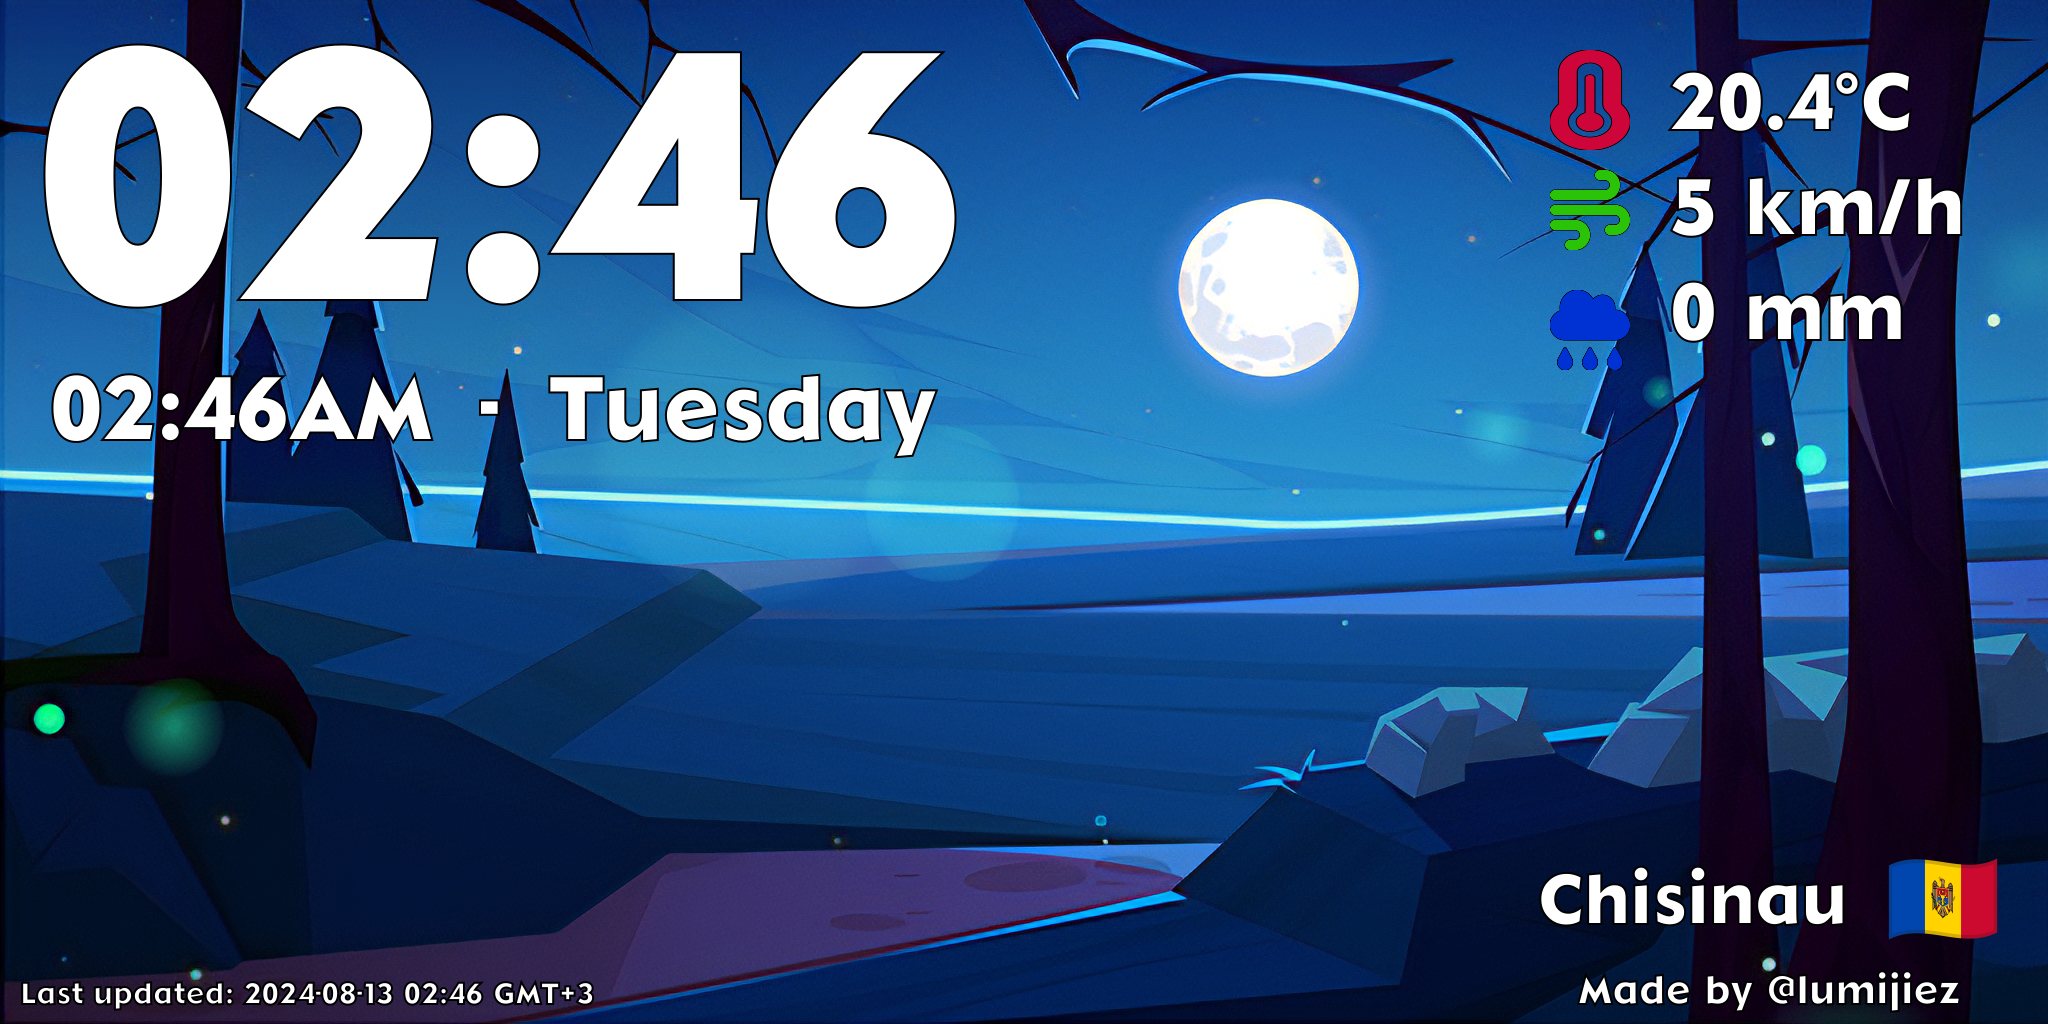
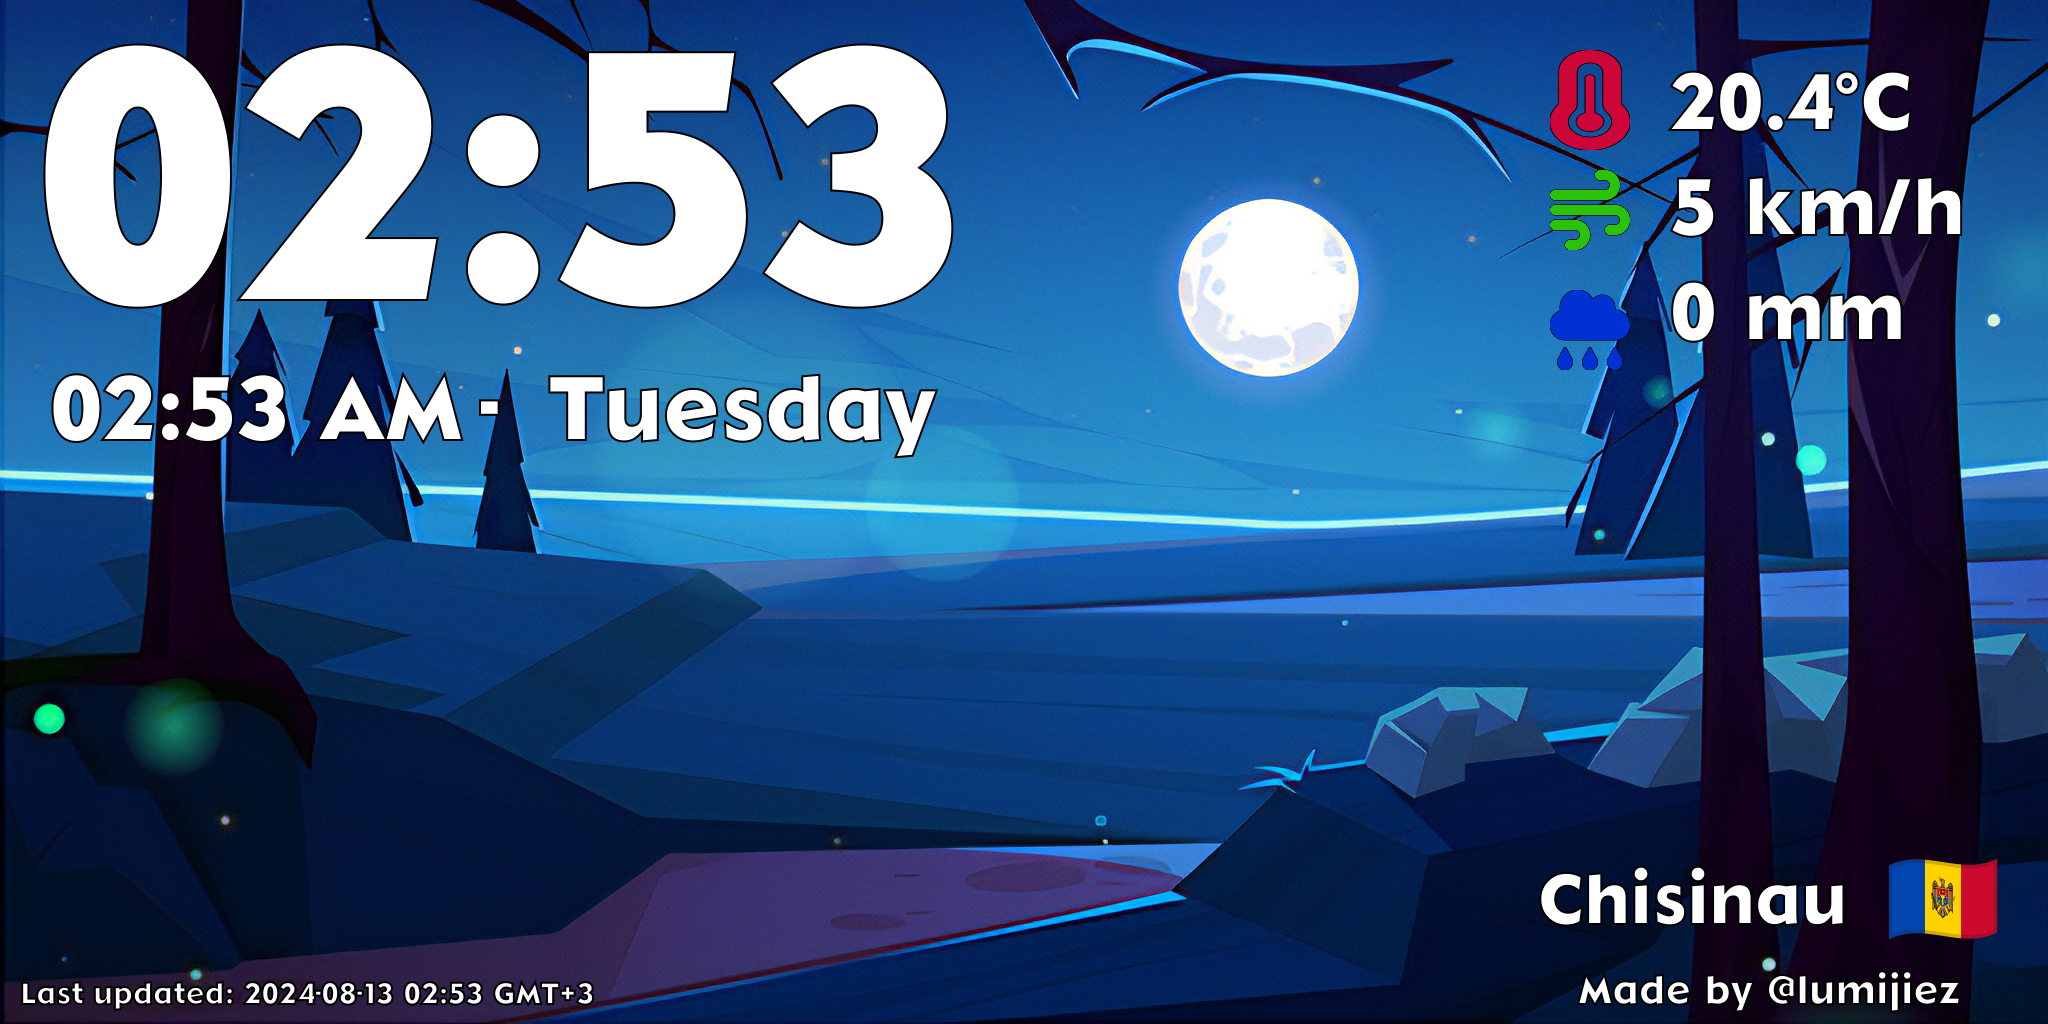
dev

Changed region(s): [[0.25, 0.0312, 0.4688, 0.3125], [0.0938, 0.3438, 0.25, 0.4375], [0.2188, 0.9375, 0.25, 1.0]]

diff --git a/scripts/update.js b/scripts/update.js
@@ -2,7 +2,8 @@ const { createCanvas, loadImage, registerFont } = require('canvas');
 const fs = require('fs');
 const path = require('path');
 const axios = require('axios');
-const moment = require('moment-timezone');
+const { format, formatDistance, subMinutes, isToday } = require('date-fns');
+const { enGB } = require('date-fns/locale');
 
 registerFont(path.join(__dirname, 'base', 'fonts', 'Nivea-Bold.otf'), { family: 'CustomFont' });
 
@@ -49,10 +50,11 @@ async function fetchWeather() {
 
 async function renderImage() {
     const now = new Date();
-    const time = moment().format('HH:mm');
-    const amPmTime = moment().format('hh:mmA');
-    const dayOfWeek = moment().format('dddd');
-    const lastUpdated = moment().tz('Europe/Chisinau').format('YYYY-MM-DD HH:mm');
+    const time = format(now, 'HH:mm');
+    const amPmTime = format(now, 'hh:mm a');
+    const dayOfWeek = format(now, 'eeee', { locale: enGB });
+    const lastUpdated = format(now, 'yyyy-MM-dd HH:mm');
+
     const { temperature, windSpeed, precipitation } = await fetchWeather();
 
     let baseImagePath;
